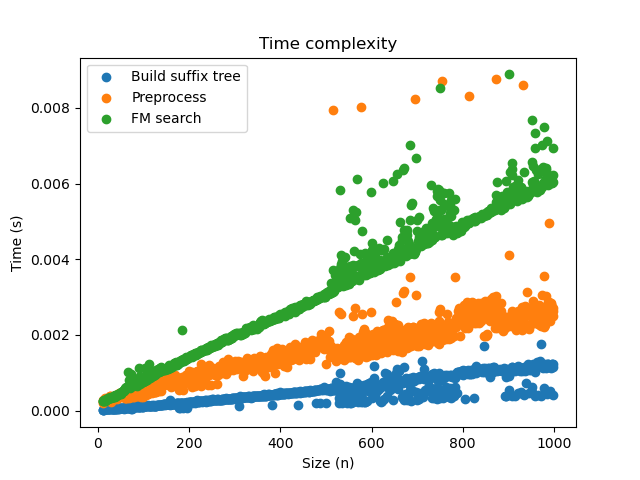
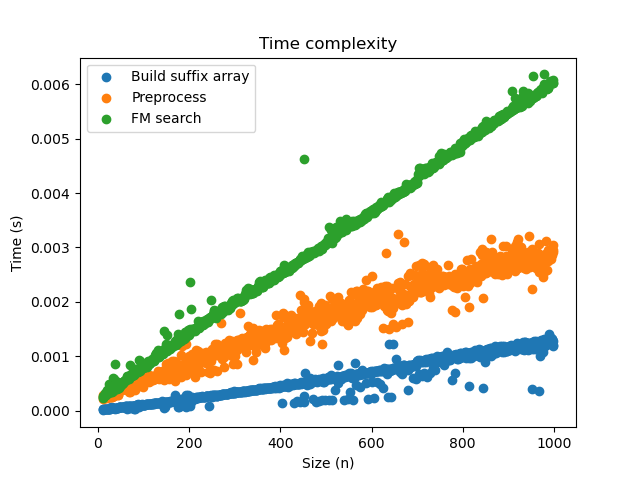
preliminary version

diff --git a/src/time.py b/src/time.py
@@ -4,6 +4,8 @@ from random import choice
 import random
 from fm import *
 import gc
+import math
+import numpy as np
 
 
 def process_file_time(sequence, seqname):
@@ -81,21 +83,63 @@ def time_data(length, bases):
     return n,t_sa, t_preprocess, t_search
 
 
+def time_data_pattern(length, bases):
+    """Function that generates DNA sequences and patterns used 
+       to calculate the running time 
+
+    Args:
+        length (int): The length of the longest sequence generated.
+
+    Returns:
+        Lists, n and t: 
+                    n is a list of the sequence length.
+                    The t lists are the running times.
+    """    
+    n = []
+    t_search = []
+     
+    sequence = ''.join([choice(bases) for j in range(1000)])
+    process_file_time(sequence, 'multiple_patterns')
+    prepro_file = '/home/mathilde/Documents/Kandidat/GSA/Project/Project4_group/project-4-python-ms-world-wides/preprocess_time/multiple_patterns._prepro.txt'
+    
+    for i in range(10, length):
+        start = random.randint(0, 1000 - round(1000/10))
+        pattern = sequence[start:(start + round(i/10))]
+        read = 'read' + str(i) + '\n' + pattern
+
+        # Time to fm search
+        t0_search = time.time()
+        fm_search(prepro_file, read)
+        t1_search = time.time()
+        total_search = t1_search - t0_search
+       
+        n.append(i)
+        t_search.append(total_search)
+
+        del pattern
+        gc.collect()
+
+        time.sleep(0.05)
+    
+    return n, t_search
+
+
 bases = ['a','t','g','c']
 worst_case = ['a']
 
 n, t1, t2, t3 = time_data(1000, bases)
 n1, t11, t21, t31 = time_data(1000, worst_case)
 
+
 def plot_fig(n, t1, t2, t3, name, number):
     plt.figure(number)
     # Plotting all times simultaneously
-    plt.scatter(n, t1, label='Build suffix tree')
+    plt.scatter(n, t1, label='Build suffix array')
     plt.scatter(n, t2, label='Preprocess')
     plt.scatter(n, t3, label='FM search')
-    # plt.scatter(n, t4, label='Exact search')
-    # plt.scatter(n, t5, label='Final')
-
+    # plt.plot(n, list(map(lambda n: n*math.log(n), n)), label='n * log(n)')
+    # plt.plot(n, list(map(lambda n: 0.25*n, n)), label='0.25*n')
+    
     # Naming figure, x-axis and y-axis
     plt.title('Time complexity')
     plt.ylabel('Time (s)')
@@ -109,5 +153,31 @@ def plot_fig(n, t1, t2, t3, name, number):
     # Save figure in folder figs
     plt.savefig('/home/mathilde/Documents/Kandidat/GSA/Project/Project4_group/project-4-python-ms-world-wides/figs/{}.png'.format(name))
 
+m, t_multiple_patterns = time_data_pattern(800, bases)
+m1, t_multiple_patterns1 = time_data_pattern(800, worst_case)
+
+def plot_fig_multiple_pattern(n, t1, name, number):
+    plt.figure(number)
+    # Plotting all times simultaneously
+    plt.scatter(n, t1, label='FM search')
+   
+
+    # Naming figure, x-axis and y-axis
+    plt.title('Time complexity')
+    plt.ylabel('Time (s)')
+    plt.xlabel('Size (m)')
+
+
+    # Adding legends
+    plt.legend()
+
+
+    # Save figure in folder figs
+    plt.savefig('/home/mathilde/Documents/Kandidat/GSA/Project/Project4_group/project-4-python-ms-world-wides/figs/{}.png'.format(name))
+
 plot_fig(n,t1,t2,t3,'random',1)
 plot_fig(n1,t11,t21,t31,'single',2)
+
+#Multiple patterns and single sequence of length 1000. 
+plot_fig_multiple_pattern(m,t_multiple_patterns,'random_multiple_patterns',3)
+plot_fig_multiple_pattern(m1,t_multiple_patterns1,'single_multiple_patterns',4)

diff --git a/src/fm.py b/src/fm.py
@@ -1,6 +1,5 @@
 import argparse
 import sys
-import re
 import ast
 
 def suffixArray(x: str) -> list:
@@ -158,20 +157,20 @@ def fm_search(prepro_file: str, reads: str) -> str:
     for readname, read in fastq_dict.items():
         
         if len(sa_list) == len(C_list) == len(O_list):
-            # For each fasta sequence
+            # For each fasta sequence (could include multiple seq)
             for i in range(len(sa_list)):
                 genomename = fastanames[i]
 
                 sa, O, C = sa_list[i], O_list[i], C_list[i]
                 L, R = 0, len(sa)
                 
-                for char in reversed(read):
+                for char in reversed(read): # O(m)
                     if L == R or char not in C:
                         L = R # for char not in C
                         break
                     else:
-                        L = C[char] + O[char][L]
-                        R = C[char] + O[char][R]
+                        L = C[char] + O[char][L] # O(1)
+                        R = C[char] + O[char][R] # O(1)
                 
                 for a in range(L,R):
                     match = sa[a]+1

diff --git a/README.md b/README.md
@@ -19,21 +19,32 @@ Once you have implemented the `fm` program (and tested it to the best of your ab
 
 ## Preprocessing
 
-*What preprocessing data do you store in files, and how?*
+We decided to make a new file with the same name as the previous file as a prefix, ending with '_prepro.txt' instead of '.fa' to connect the two. This preprocessing file contains a fasta-style header, followed by a line initiated with '#' containing the suffix array sa(x), a line with the dictionary for C after a '+' and finally a line initiated by '@' followed by a dictionary containing the table O.
+
+This format with initiating symbols for each line type makes sure the correct information is retrieved later. The preprocessing file thus condenses the information from an entire fasta entry to an identifying header and 3 additional lines.
 
 ## Insights you may have had while implementing the algorithm
+Python's built in function sorted is surprisingly fast and much easier to implement than to make an entire search function. We therefore used this to build the suffix array.
+
+Another insight was that we don't store x or bwt, even in condensed form. Computing but never saving bwt was a revelation while implementing the algorithm, since bwt felt too essential. We then realized that all of its information is stored in C and O instead, which are used when matching in x or reconstructing x.
 
 ## Problems encountered if any
 
 ## Validation
-
+!!!!!!!!!!!!NOA!!!!!!!!!!!!!!!!!!!!
 *How did you validate that the preprocessing and the search algorithm works?*
 
 ## Running time
+The preprocessing algorithm includes creating the suffix array for which we use Python's sorted() function for simplycity, which runs in O(n log n). 
+Afterwards we calculate the BWT string in O(n), because it retrieves the last character of each rotated suffix in our suffix array. The BWT is used to construct the C and O table. For the C table we first generate a sorted string "count" by using the SA in linear time O(n) which is a string with grouped starting letters of the suffixes in x; essentially the buckets. Afterwards we create a dict with the letters (buckets) as keys and insert the starting index of each bucket in O(n).
+Having bwt and C we finally construct the O table. Therefore we copy the C dict and set the values for all the keys to zero (in O($\sigma$)). We then fill up the table by running through bwt and for each letter we append to the cumulative count list for every key in our dict -> O(n*$\sigma$).
+The fm-search runs in O(m), because we loop trough the pattern string of size m -> O(m) and for every letter we get "Rank" and "Select" by indexing into O and C -> O(1).
 
-*List experiments and results that show that both the preprocessing algorithm and the search algorithm works in the expected running time. Add figures by embedding them here, as you learned how to do in project 1.*
+The following figures show that all of the algorithms look like they would run in linear time for x = a^n and a random sequence. This would be is suprising for the cration of the SA, but also it is very diffiult to distinguisch between O(n) and O(n log(n)) by looking at the graphs. The preprocessing in total (orange) takes longer because it also includes the creation of bwt and the tables. 
+Finally the fm search uses the preprocessed tables and array (that it needs to load) and then represents the search time through the pattern. 
 
 Random:
 ![](figs/random.png)
-Single:
+
+Single-symbol string:
 ![](figs/single.png)
